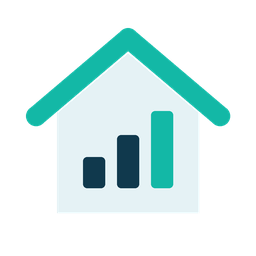
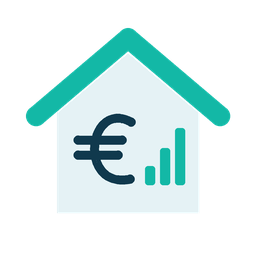
Make property value recognizable with euro symbol and chart

Changed region(s): [[0.2812, 0.4062, 0.75, 0.75]]

diff --git a/README.md b/README.md
@@ -92,3 +92,7 @@ De oude YAML-configuratie werkt niet meer met deze herbouw: volg de overstapinst
 Een eigen huisicoon met oplopende waardebalken staat nu in `custom_components/woningwaarde/brand/`, in 256 en 512 pixels en met een variant voor donkere thema's. Home Assistant gebruikt deze lokale afbeeldingen voor de integratie. Het sensoricoon blijft `mdi:home-outline`.
 
 Werk via HACS bij naar `v1.0.1b2`, herstart Home Assistant en vernieuw de browserpagina als het oude icoon nog uit de cache wordt getoond.
+
+## Prerelease v1.0.1b3: euroteken in het icoon
+
+Het huisje en de kleuren blijven behouden. Een groot euroteken en een klein oplopend grafiekje maken de woningwaarde herkenbaar. Werk via HACS bij naar `v1.0.1b3`, herstart Home Assistant en vernieuw de browserpagina.
